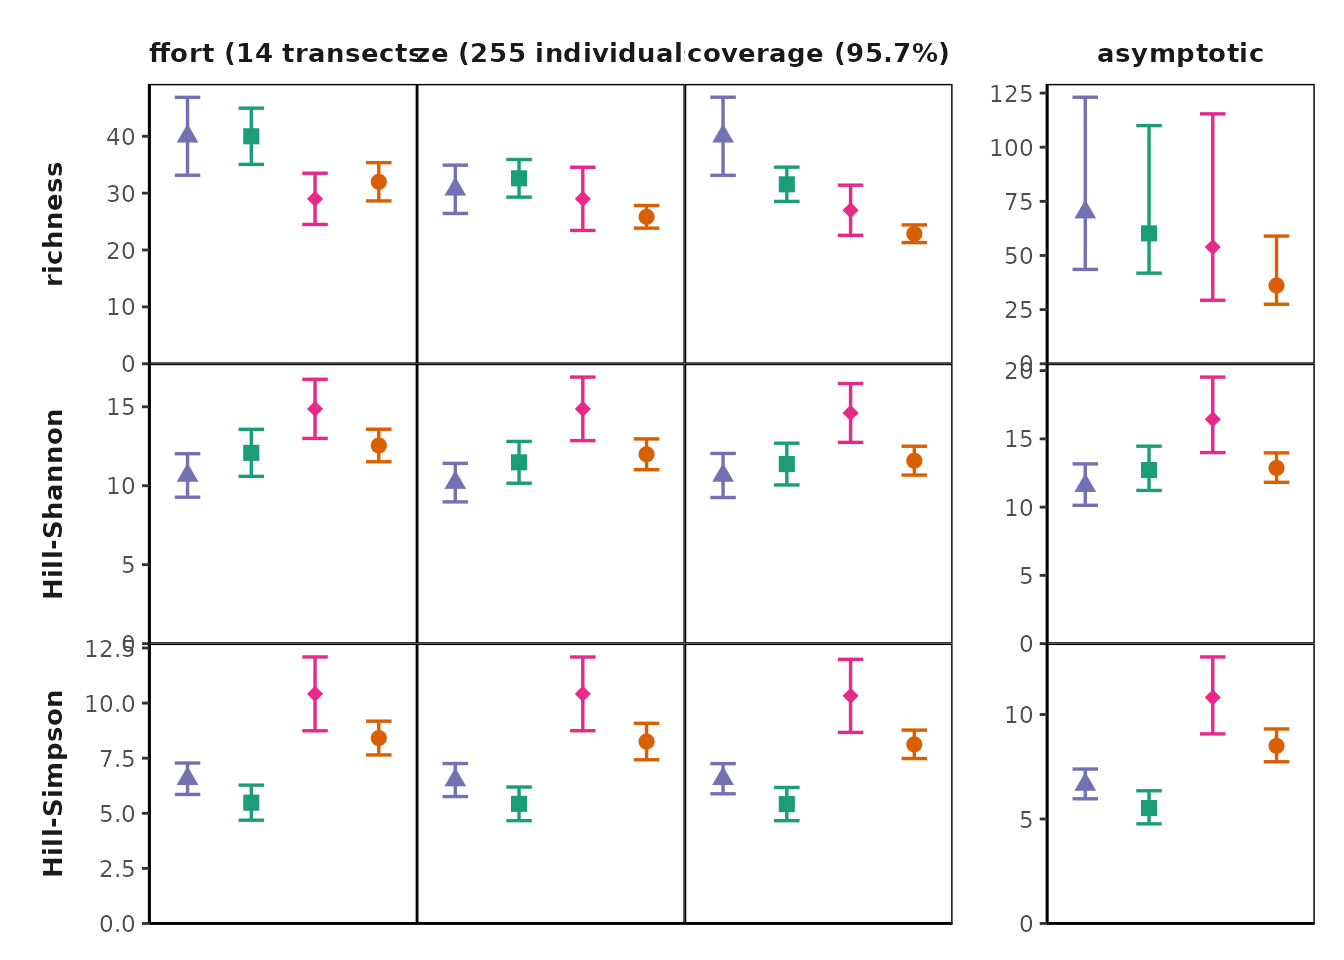
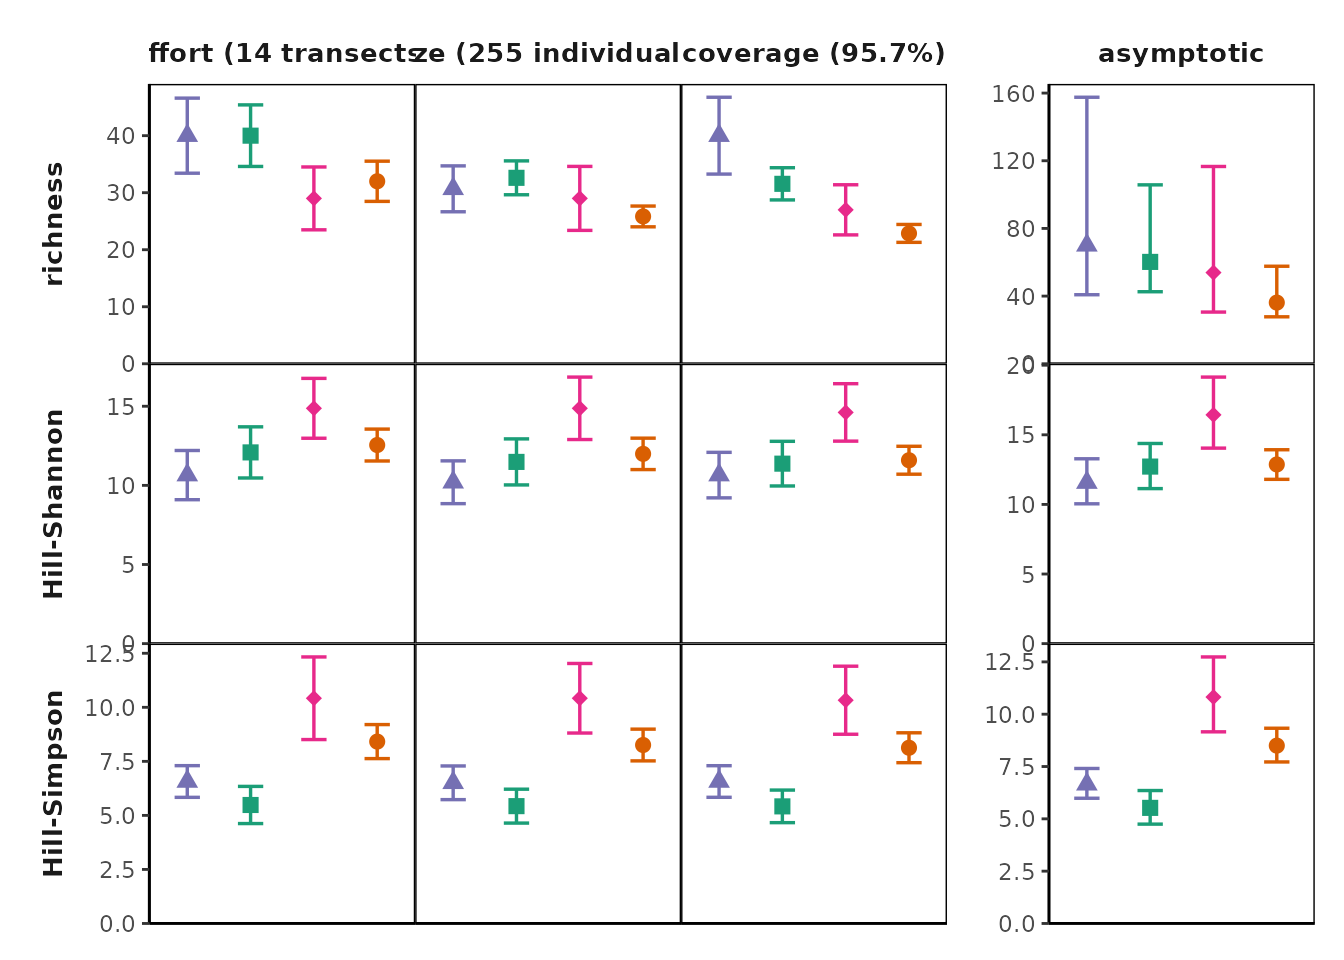
Built site for MeanRarity: 0.0.1.0003@0e11687

diff --git a/articles/Using_MeanRarity.html b/articles/Using_MeanRarity.html
@@ -183,7 +183,8 @@
   <span class="fu">ggplot2</span><span class="fu">::</span><span class="fu"><a href="https://ggplot2.tidyverse.org/reference/labs.html" class="external-link">labs</a></span><span class="op">(</span>title <span class="op">=</span> <span class="st">"\u2113 = 1\n richness"</span><span class="op">)</span> <span class="op">+</span>
   <span class="fu">ggplot2</span><span class="fu">::</span><span class="fu"><a href="https://ggplot2.tidyverse.org/reference/theme.html" class="external-link">theme</a></span><span class="op">(</span>plot.title <span class="op">=</span> <span class="fu">ggplot2</span><span class="fu">::</span><span class="fu"><a href="https://ggplot2.tidyverse.org/reference/element.html" class="external-link">element_text</a></span><span class="op">(</span>hjust <span class="op">=</span> <span class="fl">0.6</span>
                                                     , vjust <span class="op">=</span> <span class="fl">0.5</span>
-                                                    , family <span class="op">=</span> <span class="st">"Arial Unicode MS"</span><span class="op">)</span>
+                                                    <span class="co"># , family = "Arial Unicode MS"</span>
+                                                    <span class="op">)</span>
                  <span class="op">)</span> <span class="op">+</span> 
   <span class="fu">ggplot2</span><span class="fu">::</span><span class="fu"><a href="https://ggplot2.tidyverse.org/reference/scale_brewer.html" class="external-link">scale_color_brewer</a></span><span class="op">(</span>type <span class="op">=</span> <span class="st">"qual"</span>, palette <span class="op">=</span> <span class="st">"Dark2"</span><span class="op">)</span>
 <span class="co">#&gt;      rarity plot expects a square viewport (likely issues in the RStudio plotting device) and resizes points based on</span>
@@ -207,7 +208,8 @@
     <span class="fu">ggplot2</span><span class="fu">::</span><span class="fu"><a href="https://ggplot2.tidyverse.org/reference/labs.html" class="external-link">labs</a></span><span class="op">(</span>title <span class="op">=</span> <span class="st">"\u2113 = 0\nHill-Shannon diversity"</span><span class="op">)</span> <span class="op">+</span>
     <span class="fu">ggplot2</span><span class="fu">::</span><span class="fu"><a href="https://ggplot2.tidyverse.org/reference/theme.html" class="external-link">theme</a></span><span class="op">(</span>plot.title <span class="op">=</span> <span class="fu">ggplot2</span><span class="fu">::</span><span class="fu"><a href="https://ggplot2.tidyverse.org/reference/element.html" class="external-link">element_text</a></span><span class="op">(</span>hjust <span class="op">=</span> <span class="fl">0.6</span>
                                                     , vjust <span class="op">=</span> <span class="fl">0.5</span>
-                                                    , family <span class="op">=</span> <span class="st">"Arial Unicode MS"</span><span class="op">)</span>
+                                                    <span class="co"># , family = "Arial Unicode MS"</span>
+                                                    <span class="op">)</span>
                  <span class="op">)</span> <span class="op">+</span> 
     <span class="fu">ggplot2</span><span class="fu">::</span><span class="fu"><a href="https://ggplot2.tidyverse.org/reference/scale_brewer.html" class="external-link">scale_color_brewer</a></span><span class="op">(</span>type <span class="op">=</span> <span class="st">"qual"</span>, palette <span class="op">=</span> <span class="st">"Dark2"</span><span class="op">)</span>
 <span class="co">#&gt;      rarity plot expects a square viewport (likely issues in the RStudio plotting device) and resizes points based on</span>
@@ -229,7 +231,8 @@
   <span class="fu">ggplot2</span><span class="fu">::</span><span class="fu"><a href="https://ggplot2.tidyverse.org/reference/labs.html" class="external-link">labs</a></span><span class="op">(</span>title <span class="op">=</span> <span class="st">"\u2113 = -1\nHill-Simpson diversity"</span><span class="op">)</span> <span class="op">+</span>
   <span class="fu">ggplot2</span><span class="fu">::</span><span class="fu"><a href="https://ggplot2.tidyverse.org/reference/theme.html" class="external-link">theme</a></span><span class="op">(</span>plot.title <span class="op">=</span> <span class="fu">ggplot2</span><span class="fu">::</span><span class="fu"><a href="https://ggplot2.tidyverse.org/reference/element.html" class="external-link">element_text</a></span><span class="op">(</span>hjust <span class="op">=</span> <span class="fl">0.6</span>
                                                     , vjust <span class="op">=</span> <span class="fl">0.5</span>
-                                                    , family <span class="op">=</span> <span class="st">"Arial Unicode MS"</span><span class="op">)</span>
+                                                    <span class="co"># , family = "Arial Unicode MS"</span>
+                                                    <span class="op">)</span>
                  <span class="op">)</span> <span class="op">+</span>
   <span class="fu">ggplot2</span><span class="fu">::</span><span class="fu"><a href="https://ggplot2.tidyverse.org/reference/labs.html" class="external-link">labs</a></span><span class="op">(</span>x <span class="op">=</span> <span class="st">""</span><span class="op">)</span> <span class="op">+</span>
   <span class="fu">ggplot2</span><span class="fu">::</span><span class="fu"><a href="https://ggplot2.tidyverse.org/reference/scale_brewer.html" class="external-link">scale_color_brewer</a></span><span class="op">(</span>type <span class="op">=</span> <span class="st">"qual"</span>, palette <span class="op">=</span> <span class="st">"Dark2"</span><span class="op">)</span>
@@ -319,16 +322,16 @@ fit_SAD--></p>
 <span class="va">uneven_sample</span> <span class="op">&lt;-</span> <span class="fu"><a href="../reference/sample_infinite.html">sample_infinite</a></span><span class="op">(</span><span class="va">uneven_SAD</span><span class="op">$</span><span class="va">rel_abundances</span>, <span class="fl">50</span><span class="op">)</span>
 <span class="co">#sample_infinite returns a numeric vector of sample species abundances</span>
 <span class="va">even_sample</span>
-<span class="co">#&gt;  [1] 9 5 8 5 4 1 4 1 1 3 1 1 1 0 0 1 1 1 3 0</span>
+<span class="co">#&gt;  [1] 13  6  2  6  4  2  2  2  3  0  1  3  0  2  1  0  2  1  0  0</span>
 <span class="va">uneven_sample</span>
-<span class="co">#&gt;  [1] 20  6  4  1  4  0  3  4  1  1  3  0  1  1  0  1  0  0  0  0</span>
+<span class="co">#&gt;  [1] 15  7  4  6  4  1  1  2  2  1  0  2  3  0  1  1  0  0  0  0</span>
 
 <span class="co"># we can compare evenness (given a scaling parameter `l`)</span>
 <span class="co"># the evenness is the normalized ratio of an arbitrary Hill diversity to richness</span>
 <span class="fu"><a href="../reference/e3Fun.html">e3Fun</a></span><span class="op">(</span><span class="va">even_sample</span>, <span class="op">-</span><span class="fl">1</span><span class="op">)</span>
-<span class="co">#&gt; [1] 0.5526575</span>
+<span class="co">#&gt; [1] 0.5198675</span>
 <span class="fu"><a href="../reference/e3Fun.html">e3Fun</a></span><span class="op">(</span><span class="va">uneven_sample</span>, <span class="op">-</span><span class="fl">1</span><span class="op">)</span>
-<span class="co">#&gt; [1] 0.3267717</span>
+<span class="co">#&gt; [1] 0.4456522</span>
 
 <span class="co"># compare diversity from sample vs. ideal SAD:</span>
 <span class="co"># likely pretty far off for a small sample!</span>
@@ -340,8 +343,8 @@ fit_SAD--></p>
 <span class="fu"><a href="https://rdrr.io/r/base/cbind.html" class="external-link">rbind</a></span><span class="op">(</span><span class="fu"><a href="https://rdrr.io/r/base/lapply.html" class="external-link">lapply</a></span><span class="op">(</span><span class="fu"><a href="https://rdrr.io/r/base/c.html" class="external-link">c</a></span><span class="op">(</span><span class="fl">1</span>, <span class="fl">0</span>, <span class="op">-</span><span class="fl">1</span><span class="op">)</span>, <span class="kw">function</span><span class="op">(</span><span class="va">l</span><span class="op">)</span><span class="op">{</span>
   <span class="fu"><a href="../reference/rarity.html">rarity</a></span><span class="op">(</span><span class="va">even_sample</span>, <span class="va">l</span><span class="op">)</span>
 <span class="op">}</span><span class="op">)</span><span class="op">)</span>
-<span class="co">#&gt;      [,1] [,2]     [,3]   </span>
-<span class="co">#&gt; [1,] 17   12.28383 9.84252</span>
+<span class="co">#&gt;      [,1] [,2]     [,3]    </span>
+<span class="co">#&gt; [1,] 15   11.08975 8.278146</span>
 
 <span class="co"># with an uneven SAD, sample Hill-Simpson can be higher than true Hill-Simpson</span>
 <span class="co"># richness is always lower</span>
@@ -351,8 +354,8 @@ fit_SAD--></p>
 <span class="fu"><a href="https://rdrr.io/r/base/cbind.html" class="external-link">rbind</a></span><span class="op">(</span><span class="fu"><a href="https://rdrr.io/r/base/lapply.html" class="external-link">lapply</a></span><span class="op">(</span><span class="fu"><a href="https://rdrr.io/r/base/c.html" class="external-link">c</a></span><span class="op">(</span><span class="fl">1</span>, <span class="fl">0</span>, <span class="op">-</span><span class="fl">1</span><span class="op">)</span>, <span class="kw">function</span><span class="op">(</span><span class="va">l</span><span class="op">)</span><span class="op">{</span>
   <span class="fu"><a href="../reference/rarity.html">rarity</a></span><span class="op">(</span><span class="va">uneven_sample</span>, <span class="va">l</span><span class="op">)</span>
 <span class="op">}</span><span class="op">)</span><span class="op">)</span>
-<span class="co">#&gt;      [,1] [,2]    [,3]   </span>
-<span class="co">#&gt; [1,] 13   7.64594 4.92126</span>
+<span class="co">#&gt;      [,1] [,2]     [,3]    </span>
+<span class="co">#&gt; [1,] 14   9.405249 6.793478</span>
 
 
 <span class="va">big_even_sample</span> <span class="op">&lt;-</span> <span class="fu"><a href="../reference/sample_infinite.html">sample_infinite</a></span><span class="op">(</span><span class="va">even_SAD</span><span class="op">$</span><span class="va">rel_abundances</span>, <span class="fl">1e7</span><span class="op">)</span>
@@ -366,7 +369,7 @@ fit_SAD--></p>
   <span class="fu"><a href="../reference/rarity.html">rarity</a></span><span class="op">(</span><span class="va">big_even_sample</span>, <span class="va">l</span><span class="op">)</span>
 <span class="op">}</span><span class="op">)</span><span class="op">)</span>
 <span class="co">#&gt;      [,1] [,2]     [,3]    </span>
-<span class="co">#&gt; [1,] 20   15.12913 12.00784</span></code></pre></div>
+<span class="co">#&gt; [1,] 20   15.11966 12.00066</span></code></pre></div>
 <p>For any distribution of relative abundances, one can ask, “what is the Hill diversity of this distribution?” Yet the answer, of course, depends on the chosen value of the scaling parameter <span class="math inline">\(\ell\)</span>. For a comprehensive answer, one might look across values of <span class="math inline">\(\ell\)</span>, also known as a Hill “diversity profile” <span class="citation">(Chao et al. 2014)</span>. <code>MeanRarity</code> provides a function to generate a Hill diversity profile based on <span class="math inline">\(\ell\)</span> (rather than <span class="math inline">\(q\)</span>): <code><a href="../reference/divpro.html">divpro()</a></code>. <!-- these should be on a single plot, will be much more interesting that way!--></p>
 <div class="sourceCode" id="cb8"><pre class="downlit sourceCode r">
 <code class="sourceCode R"><span class="co"># the even and uneven communities have same richness but different Hill diversity when `ell != 1`</span>

diff --git a/reference/Chao_Hill_abu.html b/reference/Chao_Hill_abu.html
@@ -110,11 +110,11 @@ ISSN 2041210X, doi: <a href="https://doi.org/10.1111/2041-21" class="external-li
 <span class="r-in"></span>
 <span class="r-in"><span class="co"># estimate true Hill diversity</span></span>
 <span class="r-in"><span class="fu">Chao_Hill_abu</span><span class="op">(</span><span class="va">abs</span>, l <span class="op">=</span> <span class="fl">1</span><span class="op">)</span> <span class="co"># Chao1 estimate of richness lower bound</span></span>
-<span class="r-out co"><span class="r-pr">#&gt;</span> [1] 37.8897</span>
+<span class="r-out co"><span class="r-pr">#&gt;</span> [1] 41.47</span>
 <span class="r-in"><span class="fu">Chao_Hill_abu</span><span class="op">(</span><span class="va">abs</span>, l <span class="op">=</span> <span class="fl">0</span><span class="op">)</span> <span class="co"># Asymptotic estimate of Hill-Shannon diversity</span></span>
-<span class="r-out co"><span class="r-pr">#&gt;</span> [1] 26.79389</span>
+<span class="r-out co"><span class="r-pr">#&gt;</span> [1] 29.72694</span>
 <span class="r-in"><span class="fu">Chao_Hill_abu</span><span class="op">(</span><span class="va">abs</span>, l <span class="op">=</span> <span class="op">-</span><span class="fl">1</span><span class="op">)</span> <span class="co"># Asymptotic estimate of Hill-Simpson diversity</span></span>
-<span class="r-out co"><span class="r-pr">#&gt;</span> [1] 18.97284</span>
+<span class="r-out co"><span class="r-pr">#&gt;</span> [1] 20.46703</span>
 <span class="r-in"></span>
 </code></pre></div>
     </div>

diff --git a/reference/hurl.html b/reference/hurl.html
@@ -121,7 +121,7 @@ doi: <a href="https://doi.org/10.2307/1934145" class="external-link">10.2307/193
     <h2>Examples</h2>
     <div class="sourceCode"><pre class="sourceCode r"><code><span class="r-in"><span class="va">ab</span> <span class="op">=</span> <span class="fu"><a href="https://rdrr.io/r/base/sample.html" class="external-link">sample</a></span><span class="op">(</span><span class="fl">10</span><span class="op">:</span><span class="fl">50</span>, <span class="fl">50</span>, replace <span class="op">=</span><span class="cn">TRUE</span><span class="op">)</span></span>
 <span class="r-in"><span class="fu">hurl</span><span class="op">(</span><span class="va">ab</span>, <span class="fl">2</span><span class="op">)</span></span>
-<span class="r-out co"><span class="r-pr">#&gt;</span> [1] 45.53646</span>
+<span class="r-out co"><span class="r-pr">#&gt;</span> [1] 46.33828</span>
 <span class="r-in"><span class="co"># not run</span></span>
 <span class="r-in"><span class="co"># hurl(ab, 1e5) # returns an error</span></span>
 <span class="r-in"></span>

diff --git a/reference/Chat.Ind.html b/reference/Chat.Ind.html
@@ -111,11 +111,11 @@ doi: <a href="https://doi.org/10.1890/11-1952.1" class="external-link">10.1890/1
 <span class="r-in"></span>
 <span class="r-in"><span class="co"># estimate coverage of sample</span></span>
 <span class="r-in"><span class="fu">Chat.Ind</span><span class="op">(</span><span class="va">abs</span><span class="op">)</span></span>
-<span class="r-out co"><span class="r-pr">#&gt;</span> [1] 0.9004454</span>
+<span class="r-out co"><span class="r-pr">#&gt;</span> [1] 0.8807116</span>
 <span class="r-in"></span>
 <span class="r-in"><span class="co"># estimate coverage under rarefaction</span></span>
 <span class="r-in"><span class="fu">Chat.Ind</span><span class="op">(</span><span class="va">abs</span>, m <span class="op">=</span> <span class="fl">100</span><span class="op">)</span></span>
-<span class="r-out co"><span class="r-pr">#&gt;</span> [1] 0.856943</span>
+<span class="r-out co"><span class="r-pr">#&gt;</span> [1] 0.8323527</span>
 </code></pre></div>
     </div>
   </div>

diff --git a/reference/sample_finite.html b/reference/sample_finite.html
@@ -91,7 +91,7 @@ scalar</p></dd>
     <div id="ref-examples">
     <h2>Examples</h2>
     <div class="sourceCode"><pre class="sourceCode r"><code><span class="r-in"><span class="fu">sample_finite</span><span class="op">(</span><span class="fl">1</span><span class="op">:</span><span class="fl">9</span>, <span class="fl">15</span><span class="op">)</span></span>
-<span class="r-out co"><span class="r-pr">#&gt;</span> [1] 0 0 2 2 2 2 5 0 2</span>
+<span class="r-out co"><span class="r-pr">#&gt;</span> [1] 1 1 1 1 2 3 1 3 2</span>
 </code></pre></div>
     </div>
   </div>
